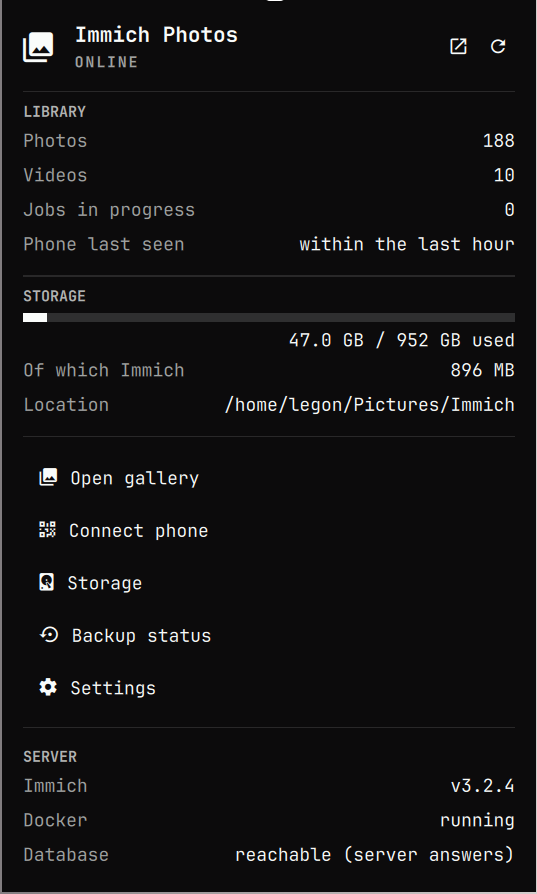
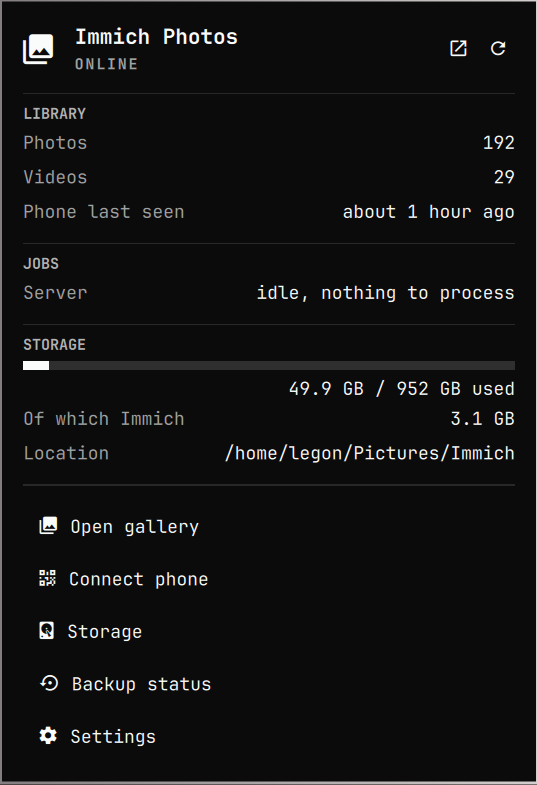
Keep the main panel short enough for small screens
With several job queues running the panel grew past a 720-pixel-high screen
and cut off its last section. The server details now live on the Settings
page. The uninstaller also prints a relative database location as a full
path.

diff --git a/Panel.qml b/Panel.qml
@@ -709,38 +709,6 @@ Panel {
               onClicked: root.show("settings")
             }
           }
-
-          PanelSeparator { foreground: root.foreground }
-
-          Column {
-            width: parent.width
-            spacing: Style.space(4)
-
-            PanelSectionHeader {
-              text: "SERVER"
-              foreground: root.foreground
-              fontFamily: root.fontFamily
-            }
-
-            InfoRow {
-              visible: root.status !== null && root.status.server.version !== null
-              label: "Immich"
-              value: root.status && root.status.server.version ? "v" + root.status.server.version : ""
-            }
-
-            InfoRow {
-              label: "Docker"
-              value: root.status && root.status.docker.daemonActive ? "running" : "not running"
-              alert: root.status !== null && !root.status.docker.daemonActive
-            }
-
-            InfoRow {
-              label: "Database"
-              value: root.status && root.status.database.status === "reachable"
-                ? (root.status.database.inferred ? "reachable (server answers)" : "reachable")
-                : "unknown"
-            }
-          }
         }
 
         // ---------- Phone setup ----------
@@ -977,6 +945,25 @@ Panel {
             text: "SERVER"
             foreground: root.foreground
             fontFamily: root.fontFamily
+          }
+
+          InfoRow {
+            visible: root.status !== null && root.status.server.version !== null
+            label: "Immich"
+            value: root.status && root.status.server.version ? "v" + root.status.server.version : ""
+          }
+
+          InfoRow {
+            label: "Docker"
+            value: root.status && root.status.docker.daemonActive ? "running" : "not running"
+            alert: root.status !== null && !root.status.docker.daemonActive
+          }
+
+          InfoRow {
+            label: "Database"
+            value: root.status && root.status.database.status === "reachable"
+              ? (root.status.database.inferred ? "reachable (server answers)" : "reachable")
+              : "unknown"
           }
 
           Button {
